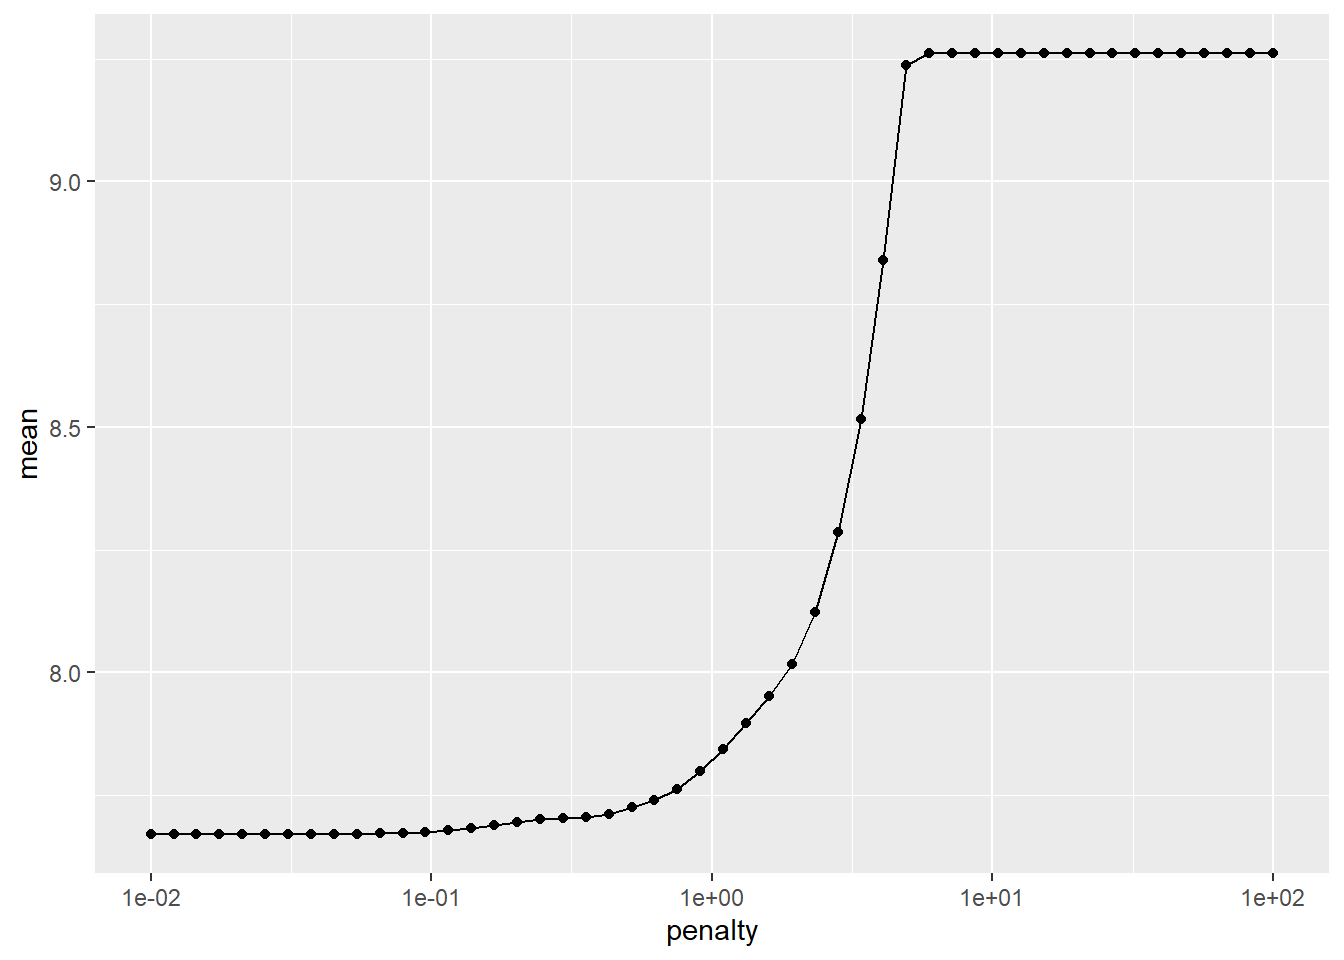
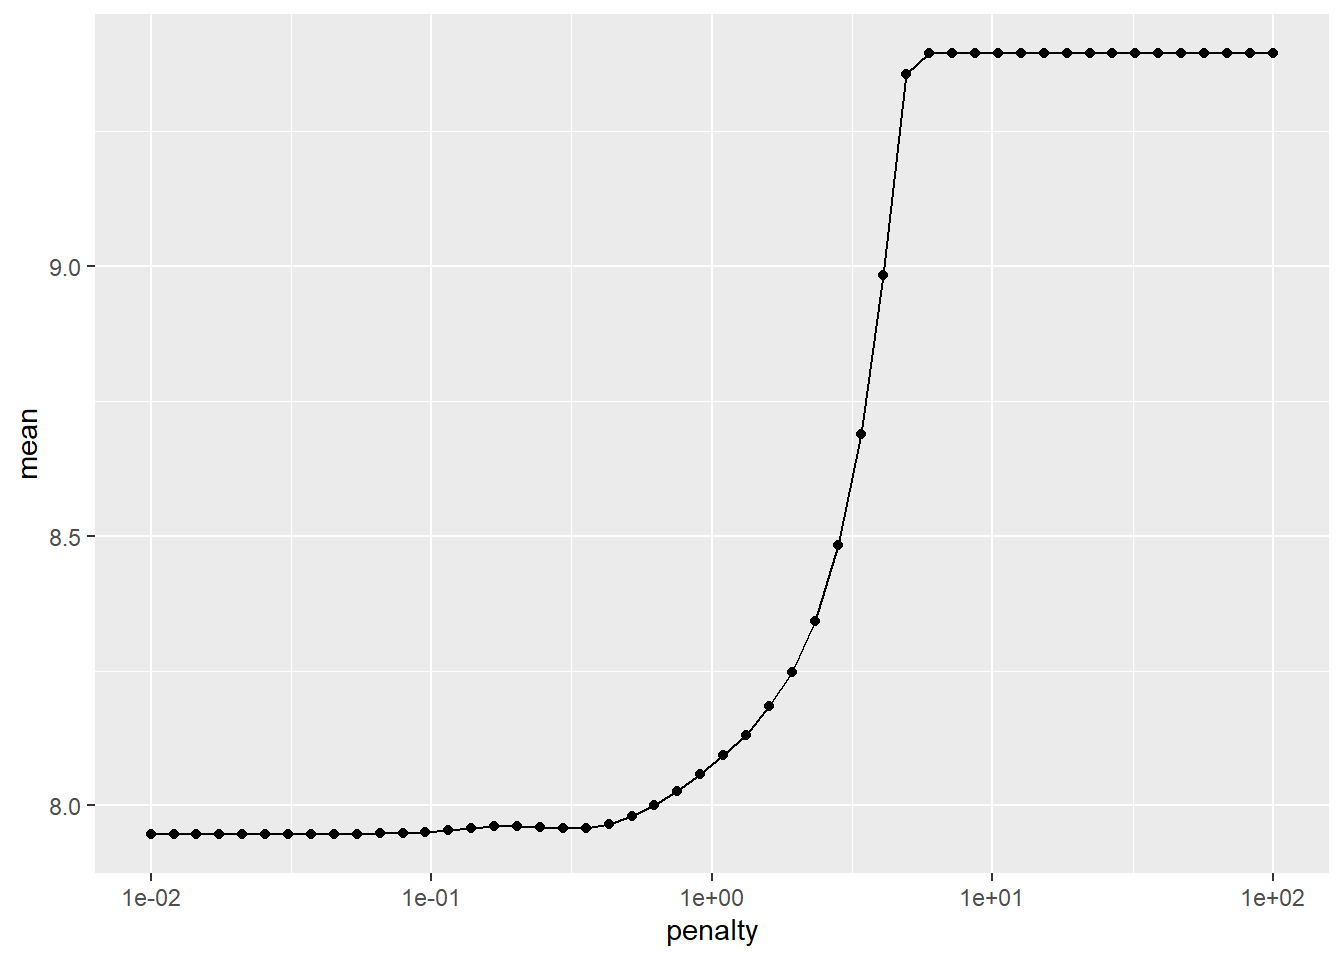
photo and website issues, deleyted rEADME

diff --git a/docs/FinalProject.html b/docs/FinalProject.html
@@ -155,7 +155,7 @@ window.Quarto = {
             <ul class="navbar-nav navbar-nav-scroll ms-auto">
   <li class="nav-item">
     <a class="nav-link" href="./index.html"> 
-<span class="menu-text">Resume</span></a>
+<span class="menu-text">C.V.</span></a>
   </li>  
   <li class="nav-item">
     <a class="nav-link active" href="./FinalProject.html" aria-current="page"> 
@@ -682,7 +682,7 @@ New names:
 <pre><code># A tibble: 1 × 2
   penalty .config              
     &lt;dbl&gt; &lt;chr&gt;                
-1  0.0146 Preprocessor1_Model03</code></pre>
+1    0.01 Preprocessor1_Model01</code></pre>
 </div>
 <div class="sourceCode cell-code" id="cb20"><pre class="sourceCode r code-with-copy"><code class="sourceCode r"><span id="cb20-1"><a href="#cb20-1" aria-hidden="true" tabindex="-1"></a>lasso_wflow_final <span class="ot">&lt;-</span> kcc_lasso_wflow <span class="sc">|&gt;</span></span>
 <span id="cb20-2"><a href="#cb20-2" aria-hidden="true" tabindex="-1"></a>  <span class="fu">finalize_workflow</span>(<span class="at">parameters =</span> lasso_best) </span></code><button title="Copy to Clipboard" class="code-copy-button"><i class="bi"></i></button></pre></div>
@@ -699,16 +699,16 @@ New names:
 <pre><code># A tibble: 10 × 3
    term        estimate penalty
    &lt;chr&gt;          &lt;dbl&gt;   &lt;dbl&gt;
- 1 (Intercept)   27.8    0.0146
- 2 PtA           -1.00   0.0146
- 3 FirstD         1.11   0.0146
- 4 TotYd          3.89   0.0146
- 5 PassY          0      0.0146
- 6 RushY          0.965  0.0146
- 7 FirstD_Alwd    2.07   0.0146
- 8 TotYd_Alwd     0      0.0146
- 9 PassY_Alwd     0.808  0.0146
-10 RushY_Alwd    -0.498  0.0146</code></pre>
+ 1 (Intercept)   27.8      0.01
+ 2 PtA           -1.02     0.01
+ 3 FirstD         1.12     0.01
+ 4 TotYd          3.89     0.01
+ 5 PassY          0        0.01
+ 6 RushY          0.966    0.01
+ 7 FirstD_Alwd    2.08     0.01
+ 8 TotYd_Alwd     0        0.01
+ 9 PassY_Alwd     0.813    0.01
+10 RushY_Alwd    -0.500    0.01</code></pre>
 </div>
 </div>
 <p>Here we can see that important variables include Points Allowed (PtA), First Down Count (FirstD), Total Yards (TotYd), total Rusing Yards (RushY), First Downs Allowed (FirstD_Alwd), Passing Yards Allowed (PassY_Alwd) and Rushing Yards Allowed (RushY_Alwd). We will proceed to use these variables in our following models.</p>
